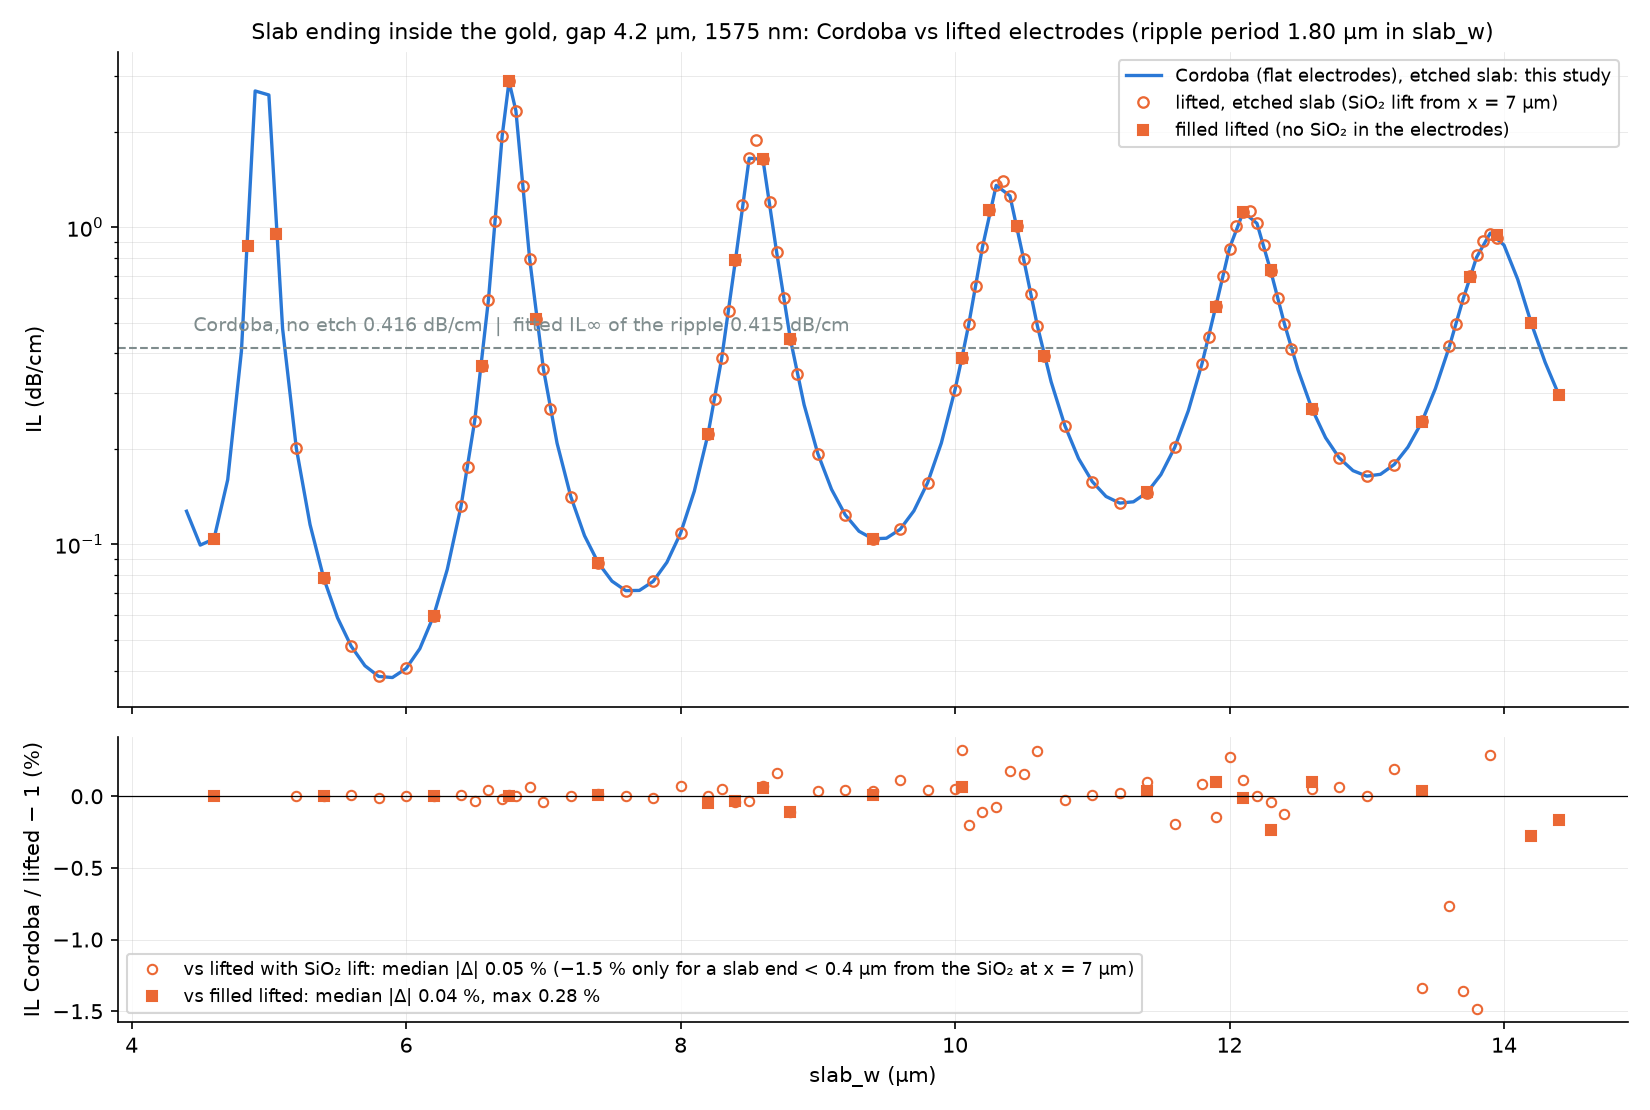
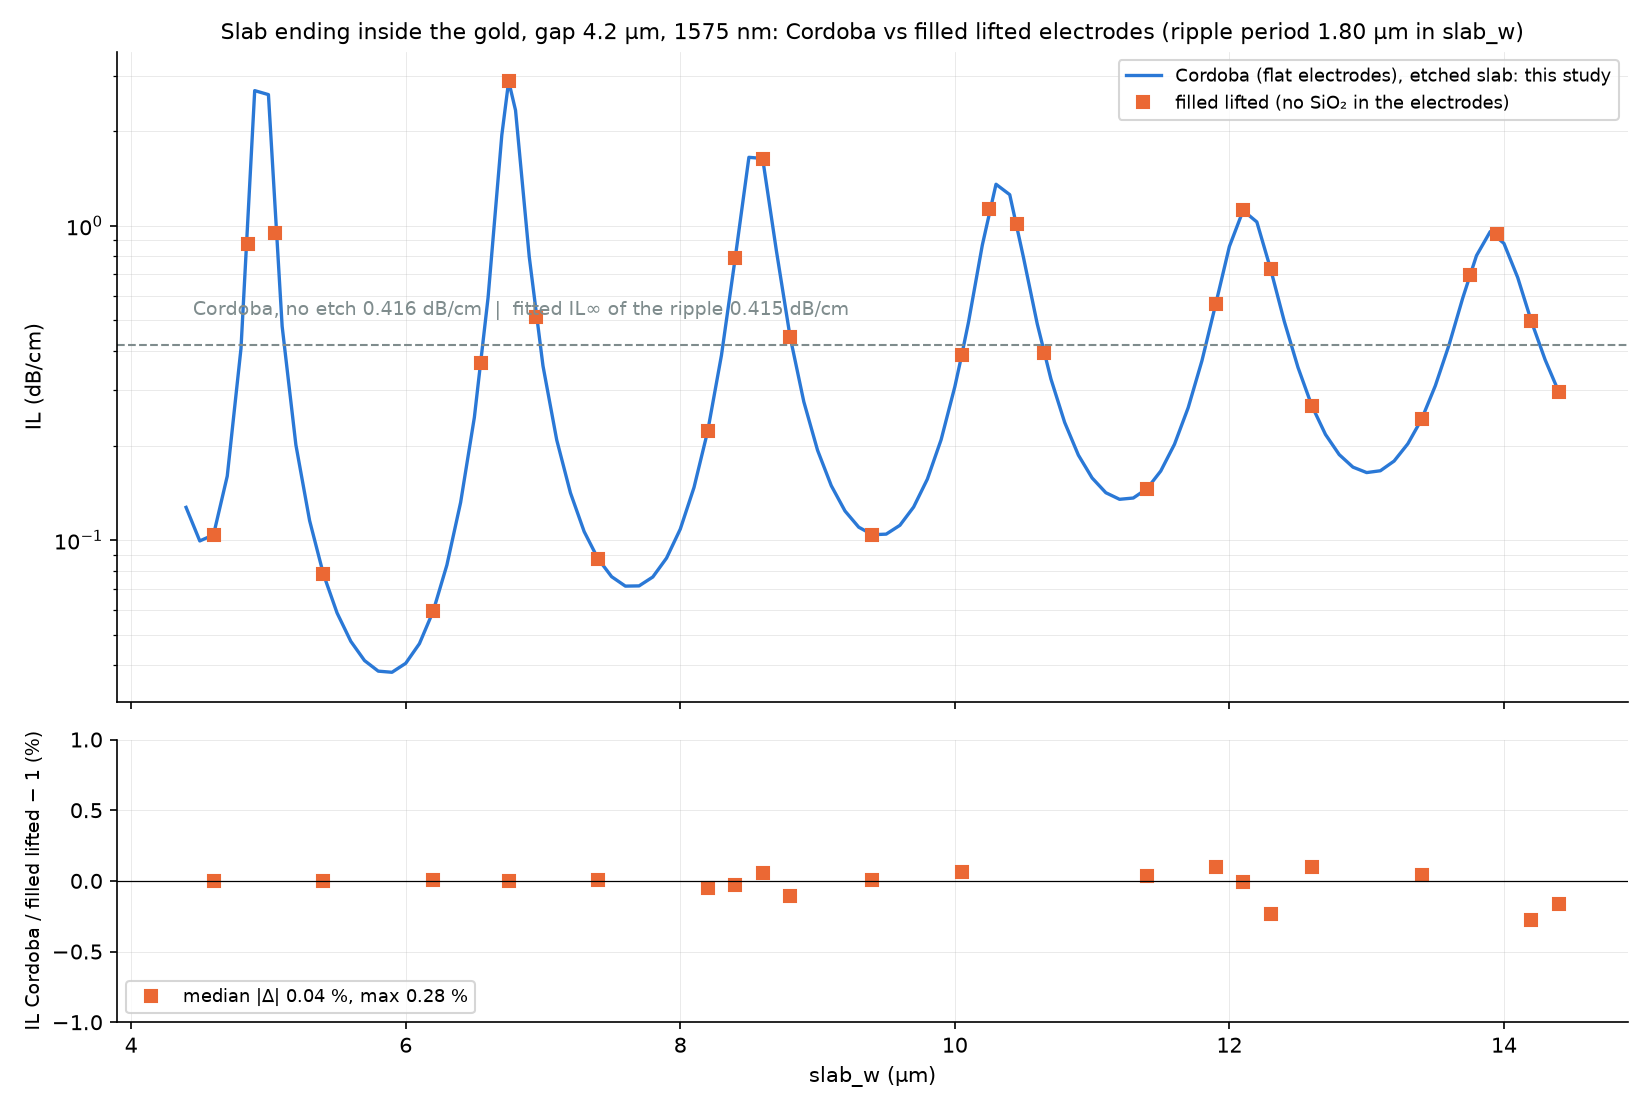
Cordoba etched comparison: show only Cordoba vs filled lifted
Claude-Session: https://claude.ai/code/session_01EHQDy7yrZwCZyHELu6KFb3

diff --git a/results/cordoba_etched/analysis.py b/results/cordoba_etched/analysis.py
@@ -63,17 +63,12 @@ with open(OUT + "cordoba_etched_slab_w_sweep.csv", "w") as f:
 # GOLD_OUT (solid stepped gold, no SiO2 in the electrodes): sweep 3
 go = np.genfromtxt(RES + "three_sweeps/sweep3_full_etch_gold_at_slab_level.csv", delimiter=",", names=True)
 go = np.c_[go["slab_w_um"], go["IL_dB_per_cm"], go["VpiL_Vcm"]]
-# lifted etched sweep (SiO2 lift beyond x = 7 um): identical to GOLD_OUT while the slab
-# ends inside the gold (median 0.03 %, sweep 3), so it fills in the 0.05-0.2 um grid
-lf = np.genfromtxt(RES + "etched_slab/slab_w_sweep.csv", delimiter=",", names=True, dtype=None, encoding=None)
-lf = np.c_[lf["slab_w_um"], lf["IL_dB_per_cm"], lf["VpiL_Vcm"]]
 lo, hi = cor[:, 0].min() - 1e-9, cor[:, 0].max() + 1e-9
 go = go[(go[:, 0] >= lo) & (go[:, 0] <= hi)]
-lf = lf[(lf[:, 0] >= lo) & (lf[:, 0] <= min(hi, 13.96))]
 
 summary = dict(n_cordoba=len(cor), no_etch_IL=round(noetch["IL"], 4), no_etch_VpiL=round(noetch["VpiL"], 4))
 cmp = {}
-for name, ref in (("filled_lifted_GOLD_OUT", go), ("lifted_etched_slab_in_gold", lf)):
+for name, ref in (("filled_lifted_GOLD_OUT", go),):
     rows = [(w, il, cor[np.isclose(cor[:, 0], w), 1][0], vp, cor[np.isclose(cor[:, 0], w), 2][0])
             for w, il, vp in ref if np.isclose(cor[:, 0], w).any()]
     a = np.array(rows)
@@ -93,24 +88,20 @@ print(json.dumps(summary, indent=1))
 # ---- Figure --------------------------------------------------------------------
 fig, (a1, a2) = plt.subplots(2, 1, figsize=(11, 7.4), sharex=True, gridspec_kw=dict(height_ratios=[2.3, 1]))
 a1.plot(cor[:, 0], cor[:, 1], "-", color=C["blue"], lw=1.6, label="Cordoba (flat electrodes), etched slab: this study")
-a1.plot(lf[:, 0], lf[:, 1], "o", ms=5, mfc="none", mec=C["orange"], mew=1.1,
-        label="lifted, etched slab (SiO₂ lift from x = 7 µm)")
-a1.plot(go[:, 0], go[:, 1], "s", ms=4.5, color=C["orange"], label="filled lifted (no SiO₂ in the electrodes)")
+a1.plot(go[:, 0], go[:, 1], "s", ms=5.5, color=C["orange"], label="filled lifted (no SiO₂ in the electrodes)")
 a1.axhline(noetch["IL"], color=C["grey"], ls="--", lw=1)
-a1.text(4.45, noetch["IL"] * 1.13, f"Cordoba, no etch {noetch['IL']:.3f} dB/cm  |  fitted IL∞ of the ripple {p[0]:.3f} dB/cm",
+a1.text(4.45, noetch["IL"] * 1.25, f"Cordoba, no etch {noetch['IL']:.3f} dB/cm  |  fitted IL∞ of the ripple {p[0]:.3f} dB/cm",
         color=C["grey"], fontsize=9)
 a1.set_yscale("log"); a1.set_ylabel("IL (dB/cm)"); a1.grid(alpha=0.3, which="both", lw=0.4)
 a1.legend(loc="upper right", fontsize=8.5)
-a1.set_title(f"Slab ending inside the gold, gap {GAP} µm, 1575 nm: Cordoba vs lifted electrodes "
+a1.set_title(f"Slab ending inside the gold, gap {GAP} µm, 1575 nm: Cordoba vs filled lifted electrodes "
              f"(ripple period {2 * p[3]:.2f} µm in slab_w)", fontsize=10.5)
-for name, mk, col in (("lifted_etched_slab_in_gold", "o", C["orange"]), ("filled_lifted_GOLD_OUT", "s", C["orange"])):
-    a = cmp[name]
-    a2.plot(a[:, 0], 100 * (a[:, 2] / a[:, 1] - 1), mk, ms=4.5, color=col, mfc="none" if mk == "o" else col,
-            label=(f"vs filled lifted: median |Δ| {100 * summary[name]['median_rel_dIL']:.2f} %, max {100 * summary[name]['max_rel_dIL']:.2f} %"
-                   if "GOLD" in name else
-                   f"vs lifted with SiO₂ lift: median |Δ| {100 * summary[name]['median_rel_dIL']:.2f} % "
-                   f"(−1.5 % only for a slab end < 0.4 µm from the SiO₂ at x = 7 µm)"))
+a = cmp["filled_lifted_GOLD_OUT"]
+a2.plot(a[:, 0], 100 * (a[:, 2] / a[:, 1] - 1), "s", ms=5.5, color=C["orange"],
+        label=f"median |Δ| {100 * summary['filled_lifted_GOLD_OUT']['median_rel_dIL']:.2f} %, "
+              f"max {100 * summary['filled_lifted_GOLD_OUT']['max_rel_dIL']:.2f} %")
+a2.set_ylim(-1, 1)
 a2.axhline(0, color="k", lw=0.6)
-a2.set_ylabel("IL Cordoba / lifted − 1 (%)"); a2.set_xlabel("slab_w (µm)")
+a2.set_ylabel("IL Cordoba / filled lifted − 1 (%)", fontsize=9); a2.set_xlabel("slab_w (µm)")
 a2.grid(alpha=0.3, lw=0.4); a2.legend(fontsize=8.5, loc="lower left")
 plt.tight_layout(); fig.savefig(OUT + "cordoba_vs_filled_lifted_IL_vs_slab_w.png", dpi=150); plt.close(fig)

diff --git a/results/cordoba_etched/README.md b/results/cordoba_etched/README.md
@@ -22,9 +22,6 @@ notebook with:
 - **vs filled lifted** (no SiO2 in the electrodes, sweep 3), 19 shared slab_w:
   - IL: median |dIL| 0.04 %, max 0.28 %.
   - Vpi*L: max difference 0.03 %.
-- **vs lifted etched slab with the SiO2 lift**, 60 shared points: median 0.05 %.
-  - The max, 1.5 %, is at slab_w 13.8 um. There the slab end is less than 0.4 um from that design's
-    gold/SiO2 edge at x = 7 um, which the Cordoba and filled designs do not have.
 - **Ripple:** period 1.80 um in slab_w (0.898 um of cavity length), 2alpha 0.172/um.
   - Fitted IL_inf 0.415 dB/cm.
   - Cordoba without etch: 0.4163 dB/cm, Vpi*L 2.267 V*cm.
